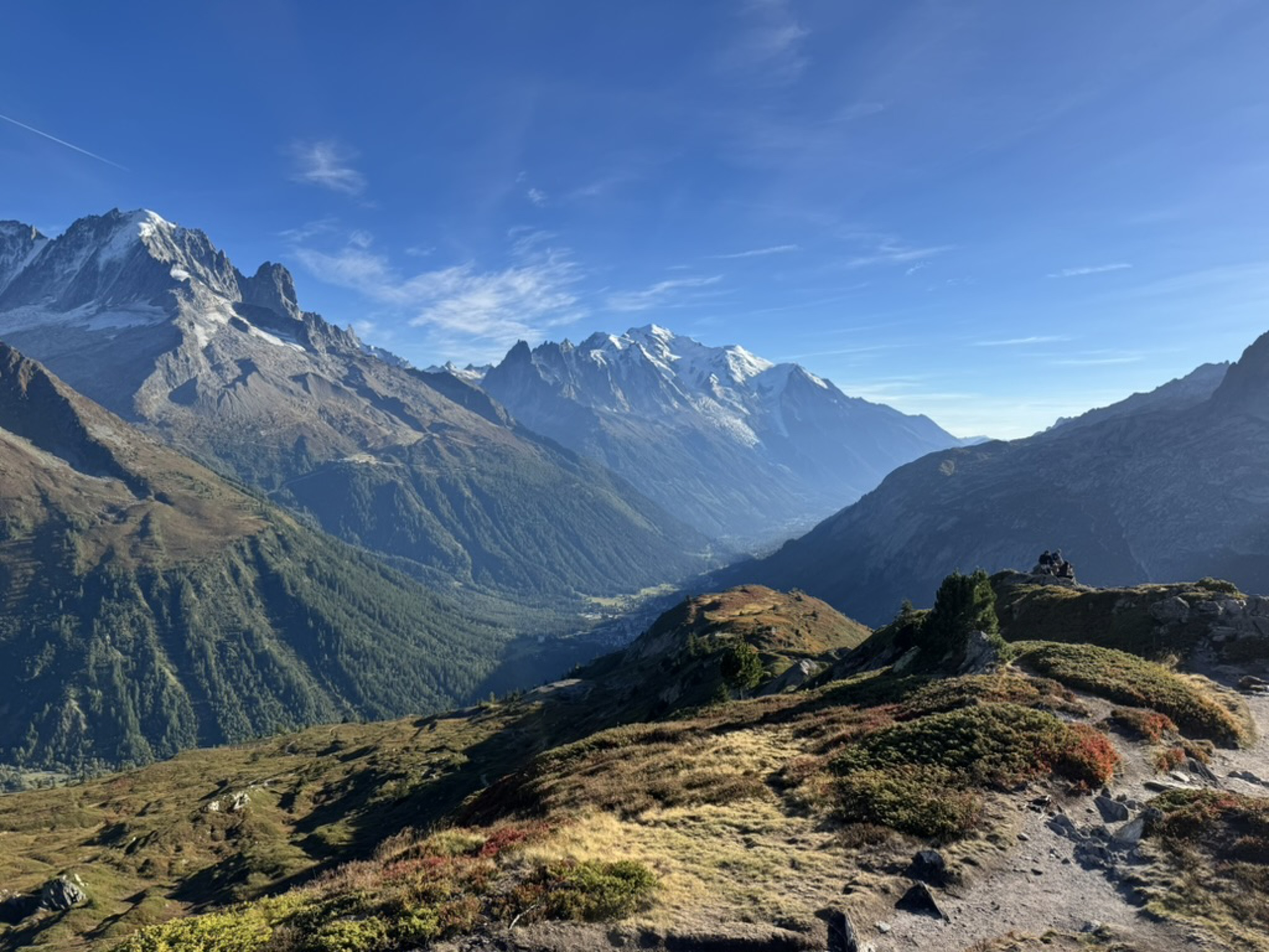
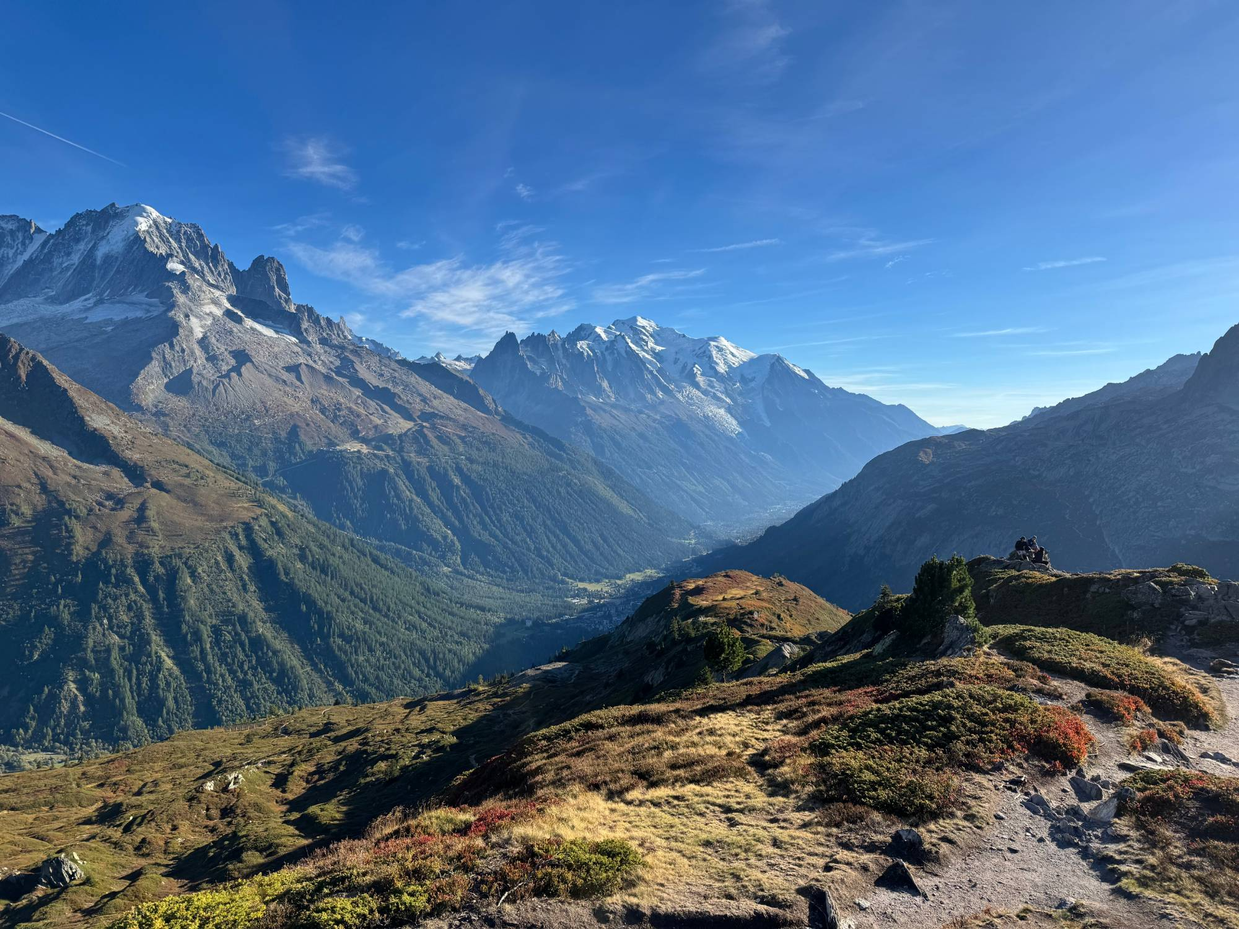
Replace upscaled hero with full-resolution photo and add mobile variant

diff --git a/index.html b/index.html
@@ -10,7 +10,7 @@
   <link rel="stylesheet" href="css/style.css">
 </head>
 <body class="home">
-  <img class="hero" src="assets/img/hero.jpg" alt="" fetchpriority="high">
+  <img class="hero" src="assets/img/hero.jpg" srcset="assets/img/hero-1200.jpg 1200w, assets/img/hero.jpg 2000w" sizes="100vw" alt="" fetchpriority="high">
 
   <main class="center">
     <a class="nav-link" href="work/">work</a>
